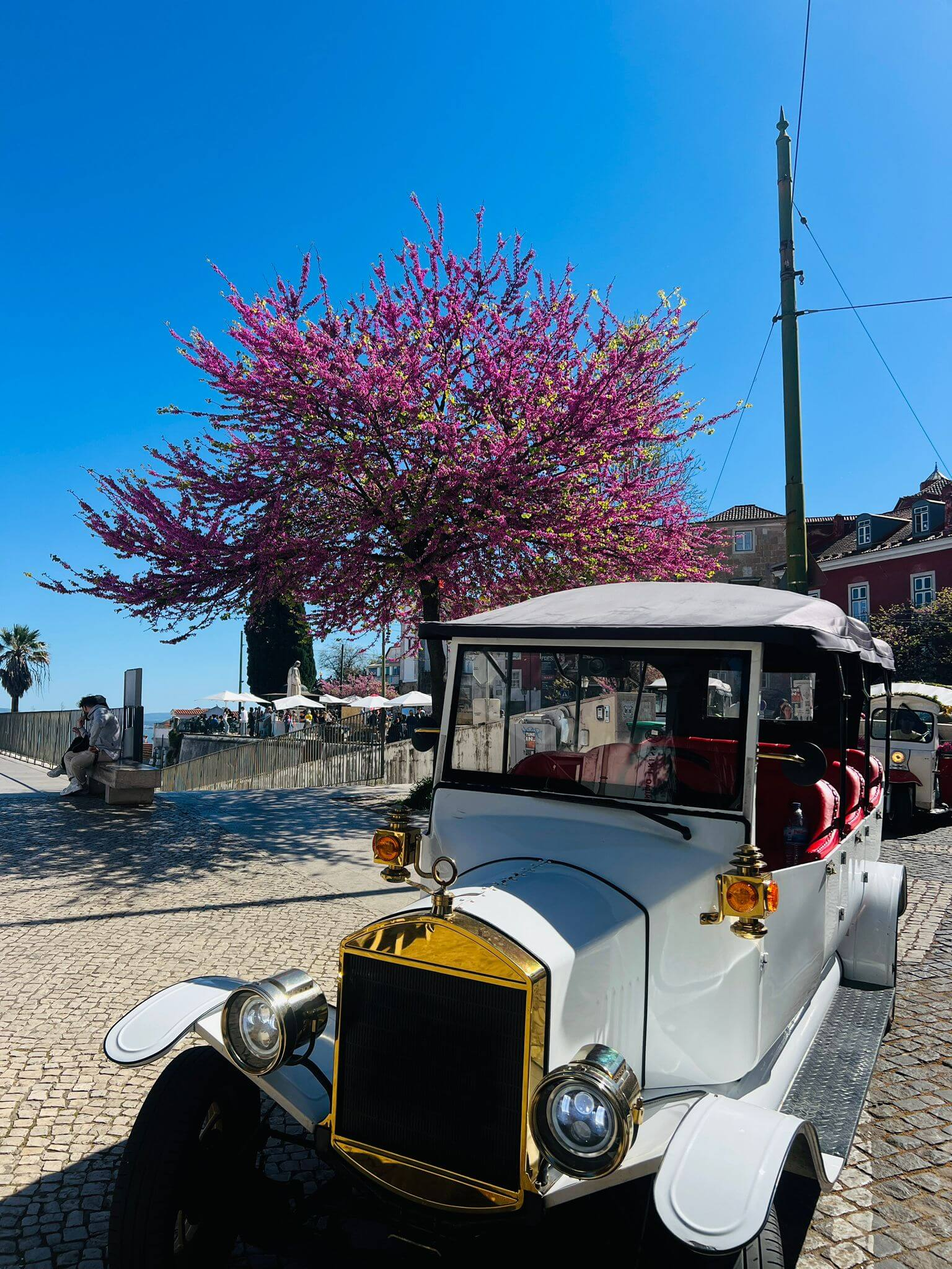
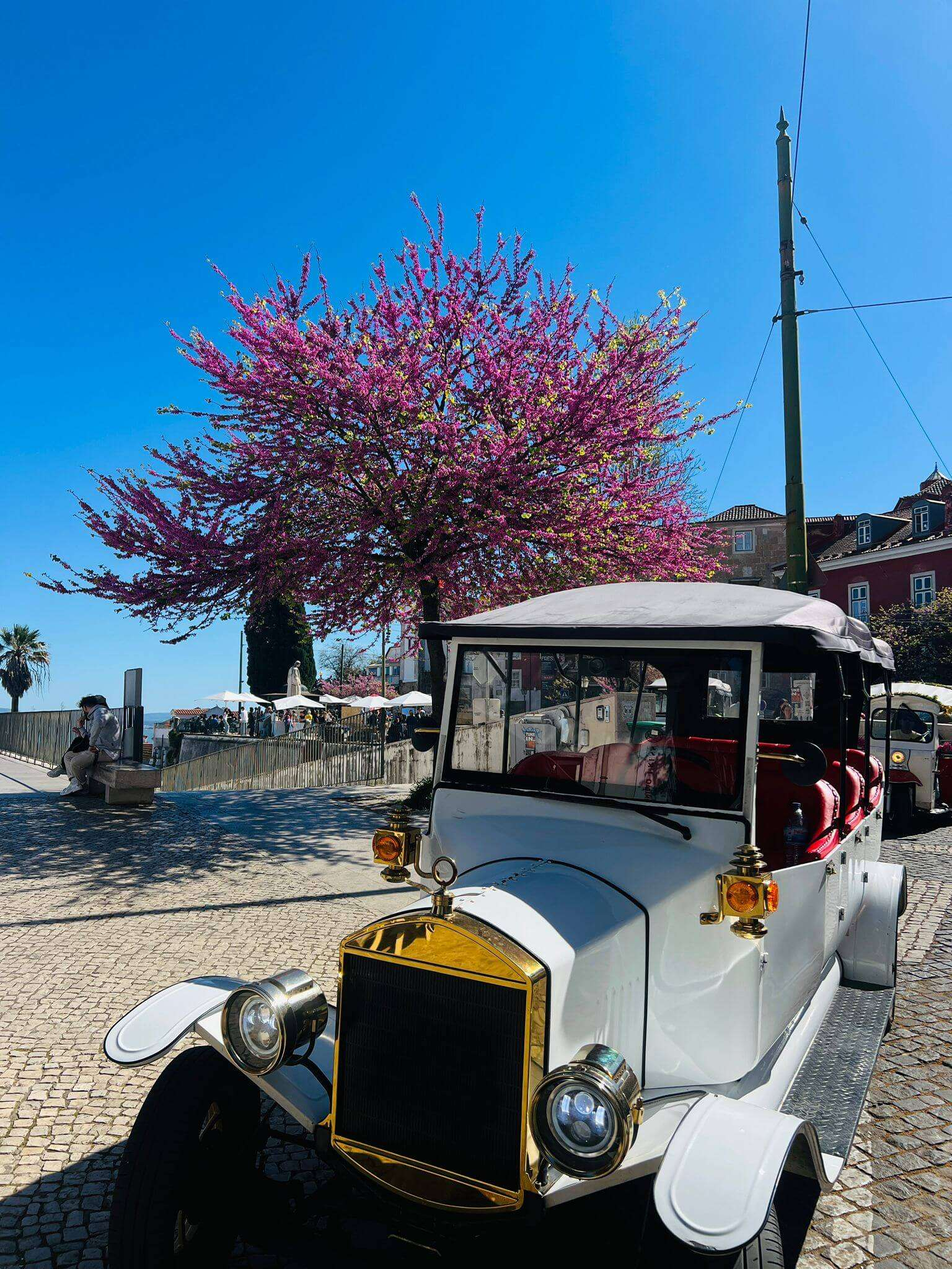
asdas

diff --git a/src/components/Header.jsx b/src/components/Header.jsx
@@ -68,23 +68,7 @@ function Header() {
         </div>
         <div id="loader" className="th-preloader">
           <div className="animation-preloader">
-            <div className="txt-loading">
-              <span preloader-text="T" className="characters">
-                T{" "}
-              </span>
-              <span preloader-text="O" className="characters">
-                O{" "}
-              </span>
-              <span preloader-text="U" className="characters">
-                U{" "}
-              </span>
-              <span preloader-text="R" className="characters">
-                R{" "}
-              </span>
-              <span preloader-text="M" className="characters">
-                M
-              </span>
-            </div>
+            <div className="txt-loading"></div>
           </div>
         </div>
       </div>
